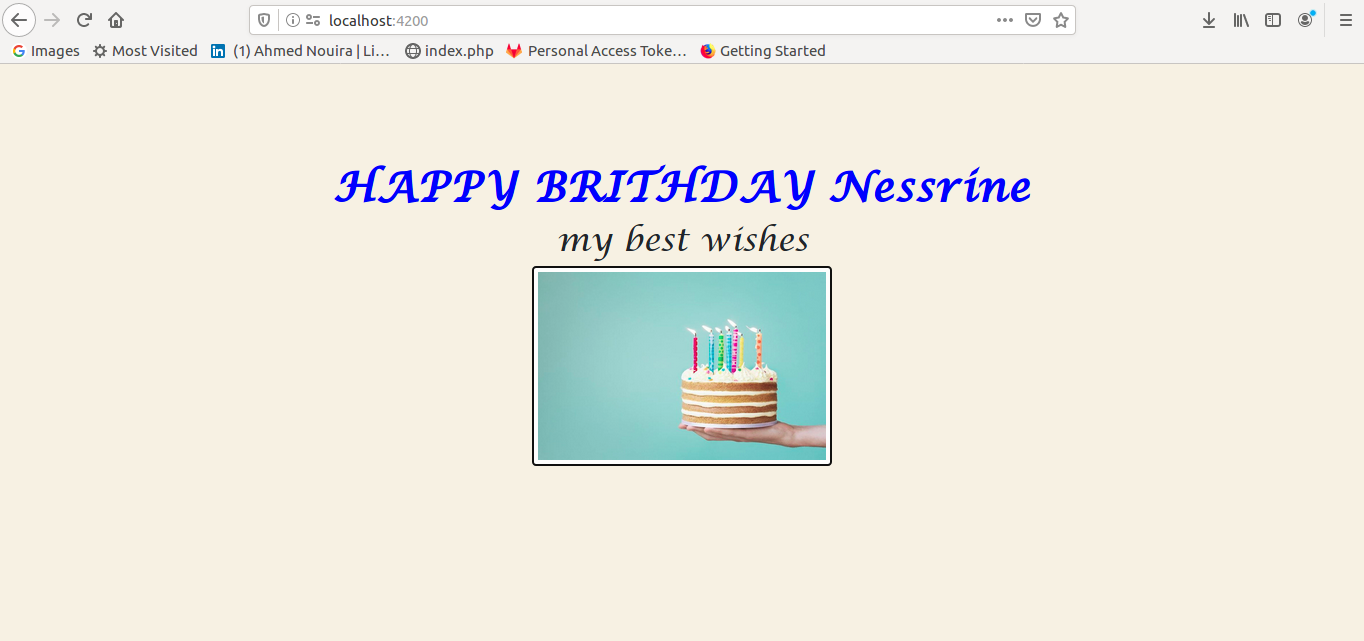
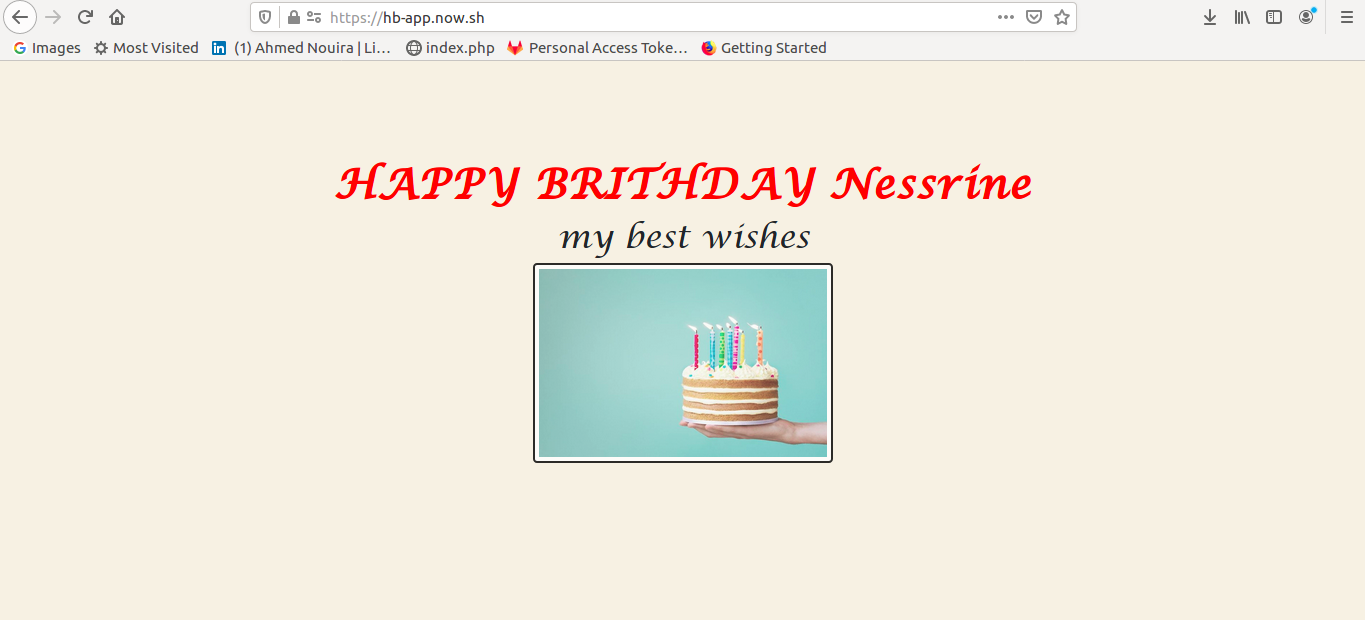
fix margin

diff --git a/src/styles.css b/src/styles.css
@@ -18,7 +18,7 @@ body {
 
     font-family: llcalig;
     text-align: center;
-    margin-top: 100px;
+    margin-top: 50px;
     
     
 }

diff --git a/README.md b/README.md
@@ -1,8 +1,10 @@
 # happy-birthday-app
 
-* This a funny happy birthday application hosted in the cloud.
+* This a funny happy birthday application hosted in the cloud using _[Zeit Now](https://zeit.co/home)_
 
 ## Overview 
+
+* https://hb-app.now.sh/
 
 ![img](/img/index.png)
 
